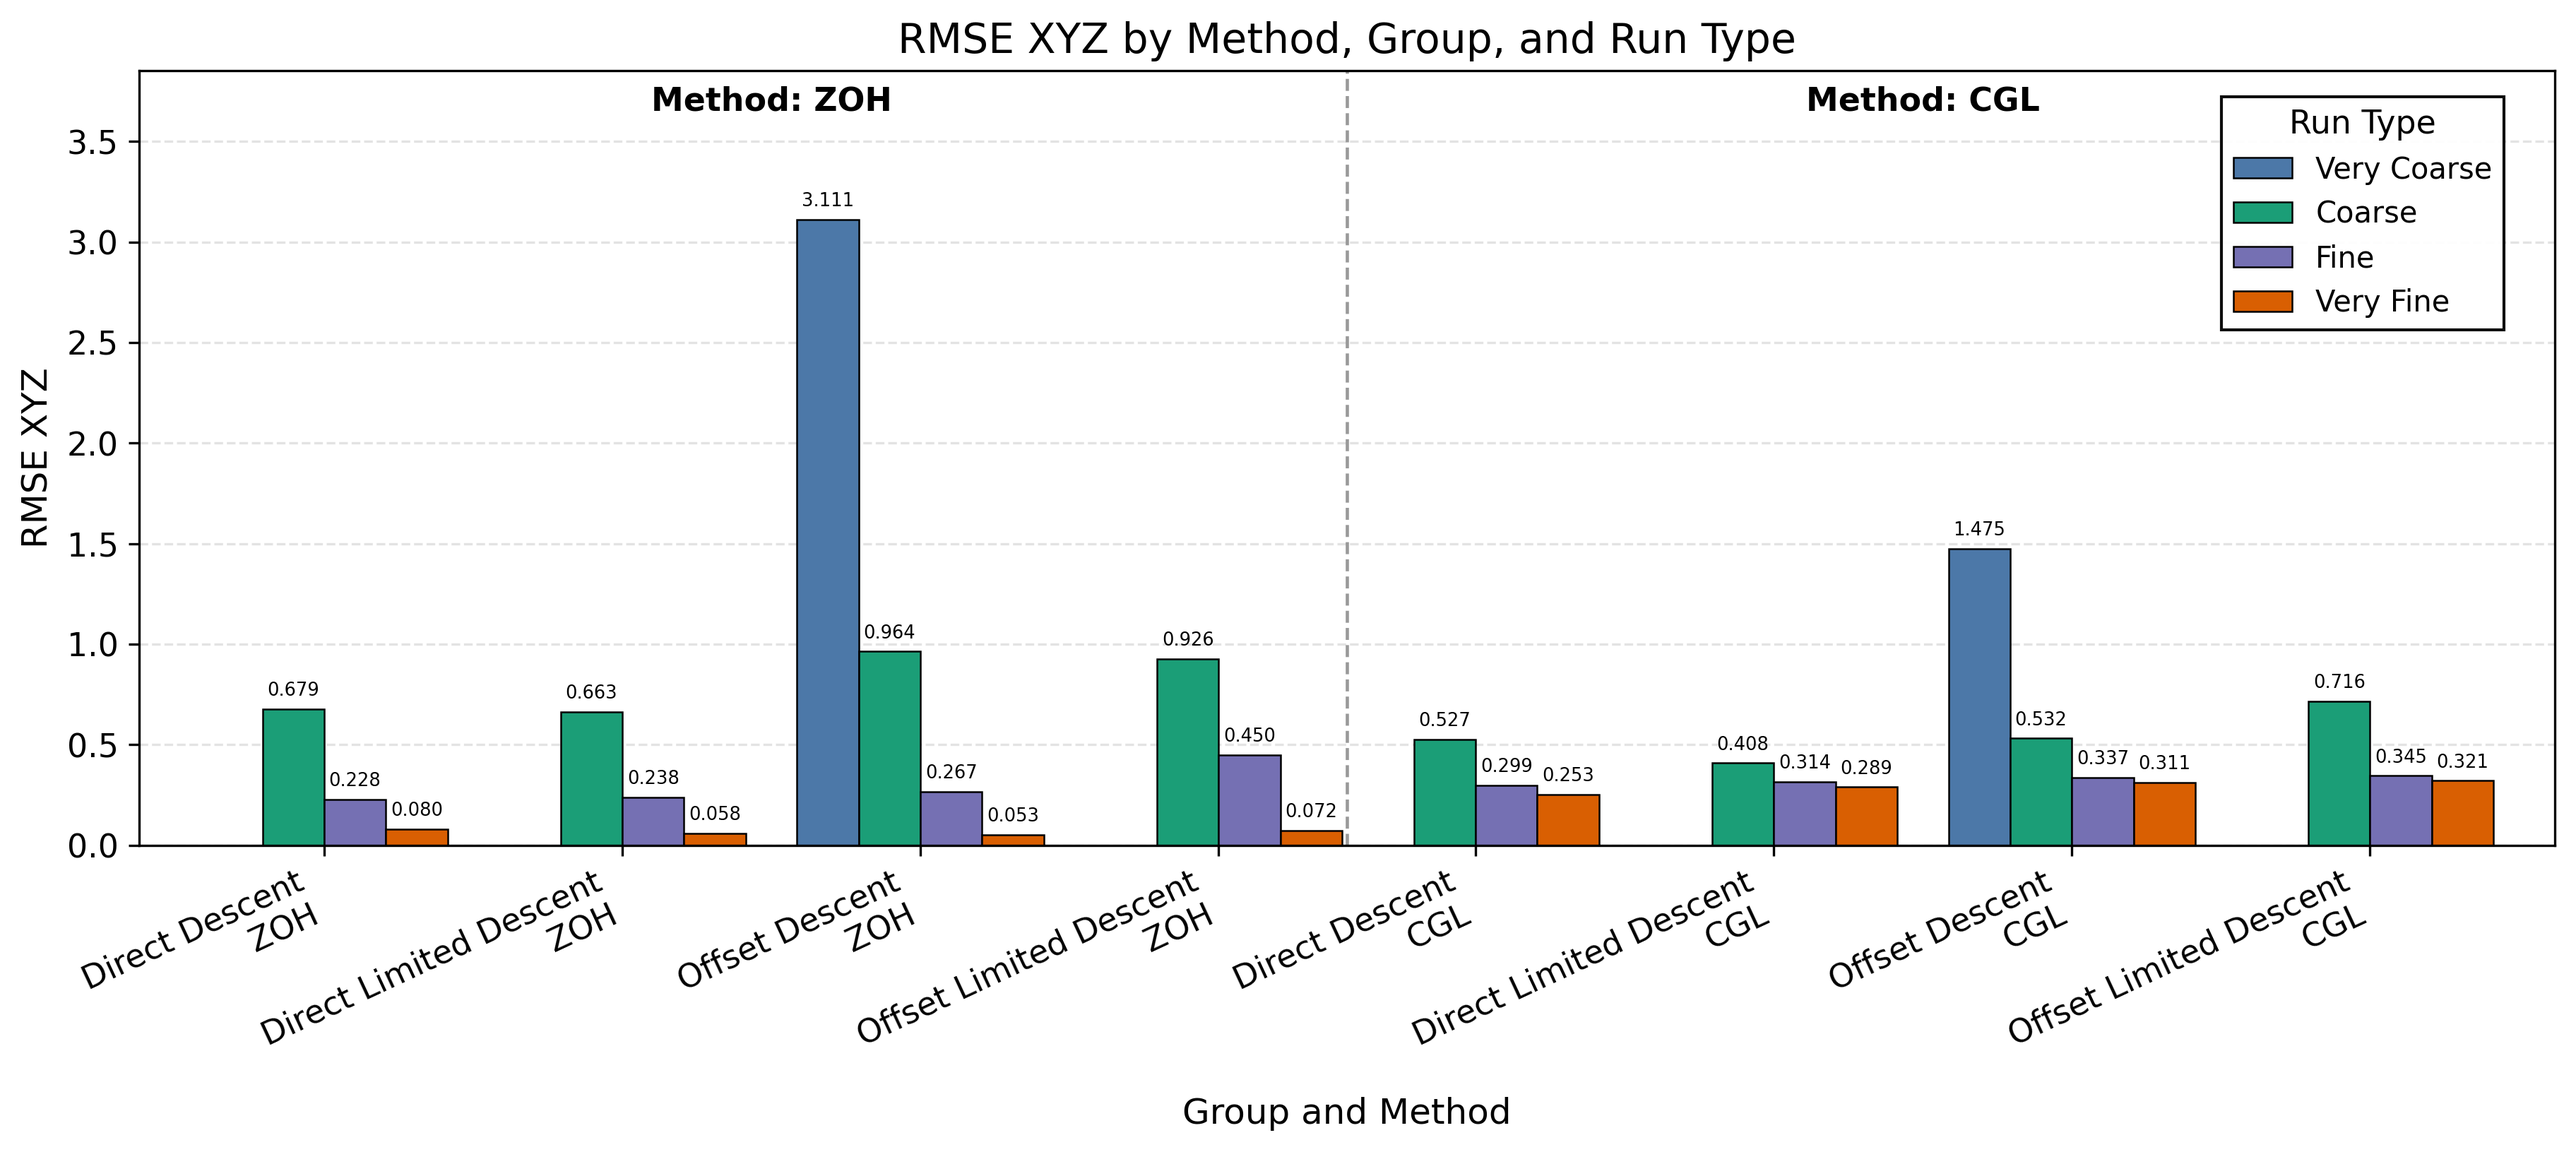
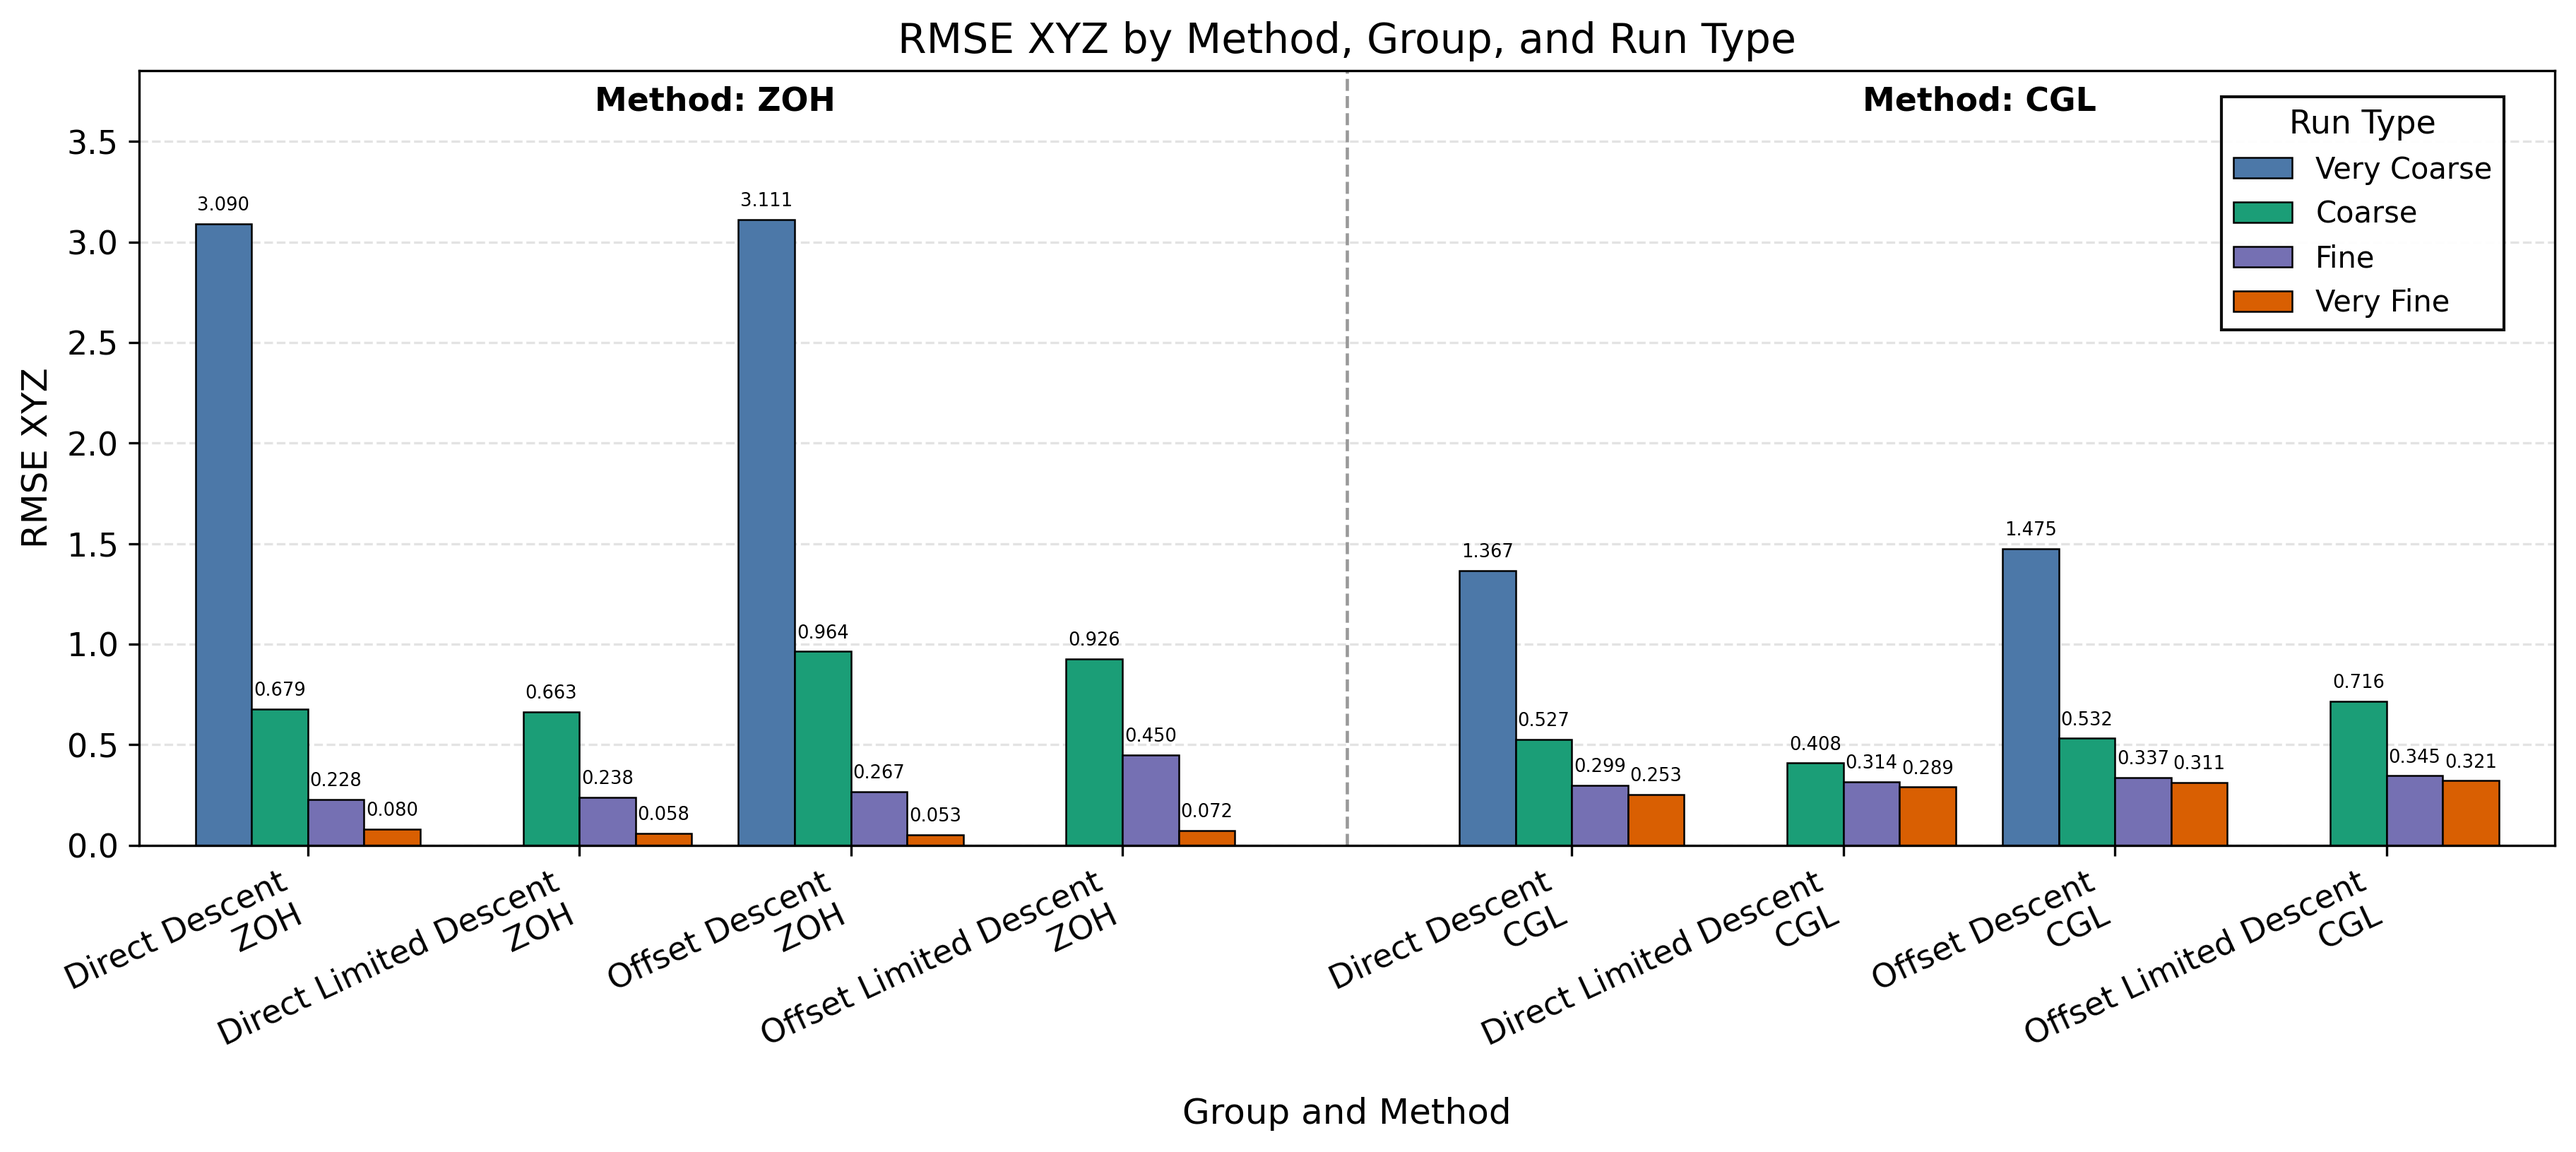
add extreme short for direct_descent

diff --git a/Algorithms/LosslessConvexification/rust_lossless/src/main.rs b/Algorithms/LosslessConvexification/rust_lossless/src/main.rs
@@ -27,8 +27,8 @@ struct SimpleMetricsContext {
 }
 
 fn main() {
-    //  let initial_position = [0.0, 0.0, 50.0];
-    let initial_position = [10.0, 20.0, 50.0];
+     let initial_position = [0.0, 0.0, 50.0];
+    // let initial_position = [10.0, 20.0, 50.0];
 
     let max_velocity = 500.0;
     // let max_velocity = 5.0;
@@ -50,7 +50,7 @@ fn main() {
         coarse_line_search_delta_t: 0.1,
         fine_line_search_delta_t: 0.01,
         coarse_delta_t: 0.5,
-        fine_delta_t: 0.5,
+        fine_delta_t: 0.4,
         use_glide_slope: true,
         glide_slope: 5_f64.to_radians(),
         N: 20,
@@ -78,8 +78,8 @@ fn main() {
         ..Default::default()
     };
 
-    let group_name = "offset_descent";
-    let truth_name = "trajectory_zoh_truth_offset.csv";
+    let group_name = "direct_descent";
+    let truth_name = "trajectory_zoh_truth.csv";
     let run_type = "extreme_short";
     let solver_groups_to_run: Vec<&str> = vec!["zoh", "cgl"];
     // let solver_groups_to_run: Vec<&str> = vec!["cgl"];

diff --git a/Algorithms/LosslessConvexification/rust_lossless/src/plot_rmse_split_by_method.py b/Algorithms/LosslessConvexification/rust_lossless/src/plot_rmse_split_by_method.py
@@ -136,7 +136,7 @@ def plot_metric(
 
     n_groups = len(groups)
     group_spacing = 1.45
-    split_gap = 1.25
+    split_gap = 2.40
     bar_width = 0.30
     run_offsets = {
         "very_coarse": -1.5 * bar_width,
